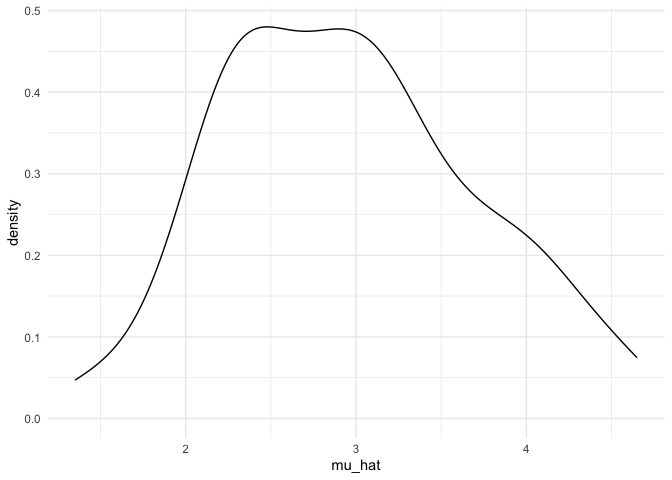
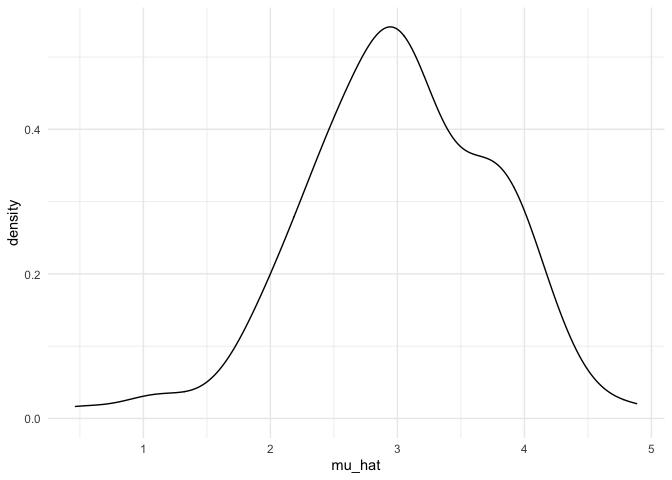
finish simulation

diff --git a/simulation.md b/simulation.md
@@ -1,7 +1,7 @@
 Simulation
 ================
 Ruiqi Yan
-11/6/2021
+11/11/2021
 
 ## Let’s simulate something
 
@@ -29,7 +29,7 @@ sim_mean_sd(30)
     ## # A tibble: 1 × 2
     ##   mu_hat sigma_hat
     ##    <dbl>     <dbl>
-    ## 1   3.96      4.52
+    ## 1   2.95      4.10
 
 ## let’s simulate a lot
 
@@ -50,16 +50,16 @@ bind_rows(output)
     ## # A tibble: 100 × 2
     ##    mu_hat sigma_hat
     ##     <dbl>     <dbl>
-    ##  1   2.97      3.39
-    ##  2   2.50      4.04
-    ##  3   2.79      3.83
-    ##  4   2.44      4.29
-    ##  5   2.74      4.15
-    ##  6   3.04      3.42
-    ##  7   3.00      4.56
-    ##  8   3.78      4.46
-    ##  9   2.43      3.01
-    ## 10   3.67      4.41
+    ##  1   3.05      4.49
+    ##  2   3.05      3.73
+    ##  3   4.24      2.70
+    ##  4   4.21      4.14
+    ##  5   2.75      3.80
+    ##  6   2.66      3.86
+    ##  7   3.78      4.23
+    ##  8   2.79      4.20
+    ##  9   3.81      3.16
+    ## 10   2.56      3.39
     ## # … with 90 more rows
 
 Let’s use a loop function
@@ -90,7 +90,7 @@ sim_results %>%
     ## # A tibble: 1 × 2
     ##   avg_samp_mean sd_samp_mean
     ##           <dbl>        <dbl>
-    ## 1          2.96        0.741
+    ## 1          2.99        0.650
 
 ``` r
 sim_results %>% 
@@ -99,3 +99,5 @@ sim_results %>%
 ```
 
 ![](simulation_files/figure-gfm/unnamed-chunk-6-2.png)<!-- -->
+
+## Let’s try other sample sizes
